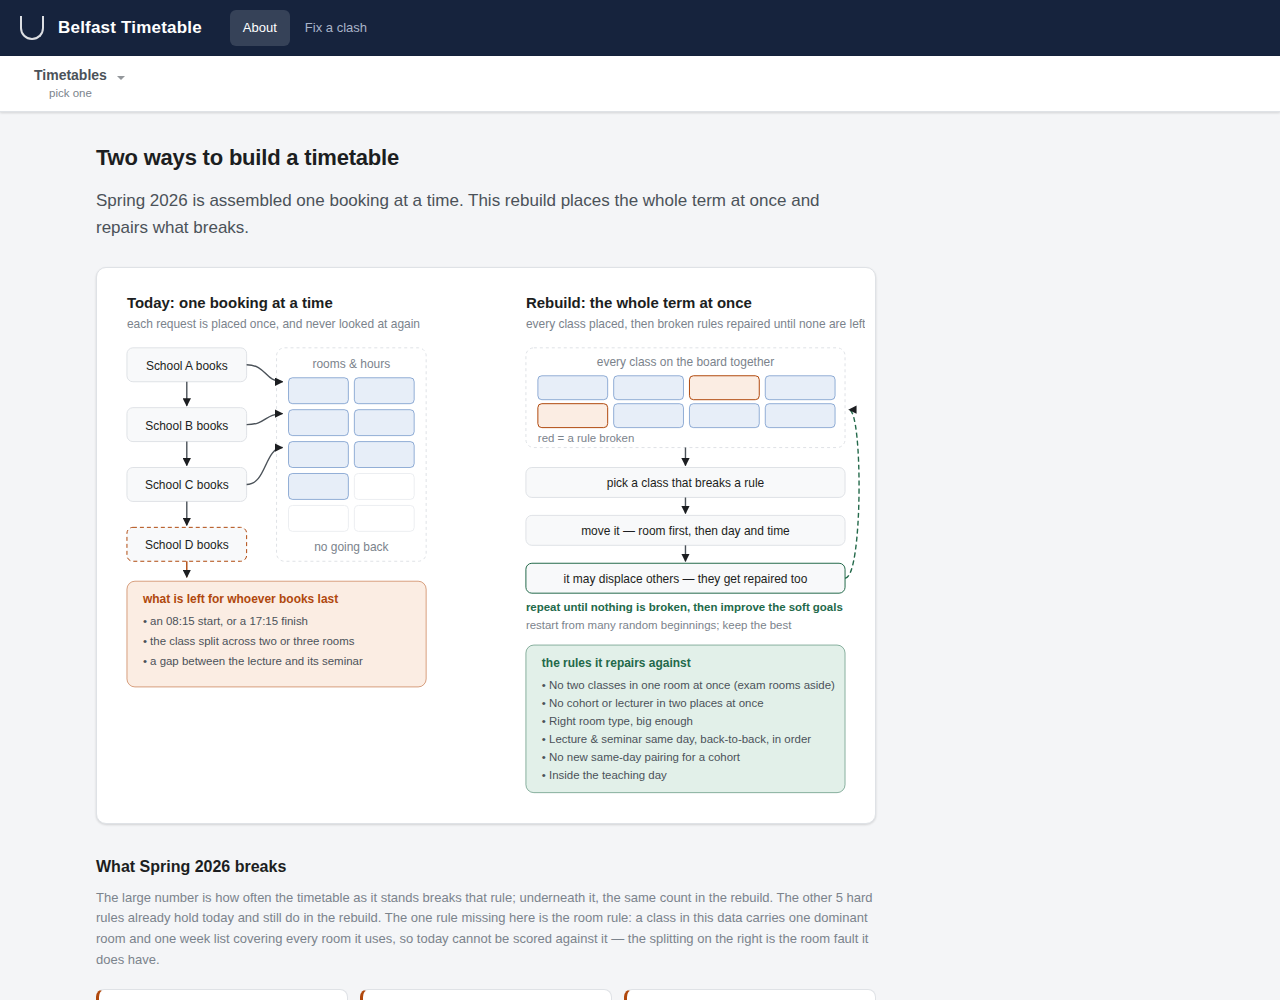
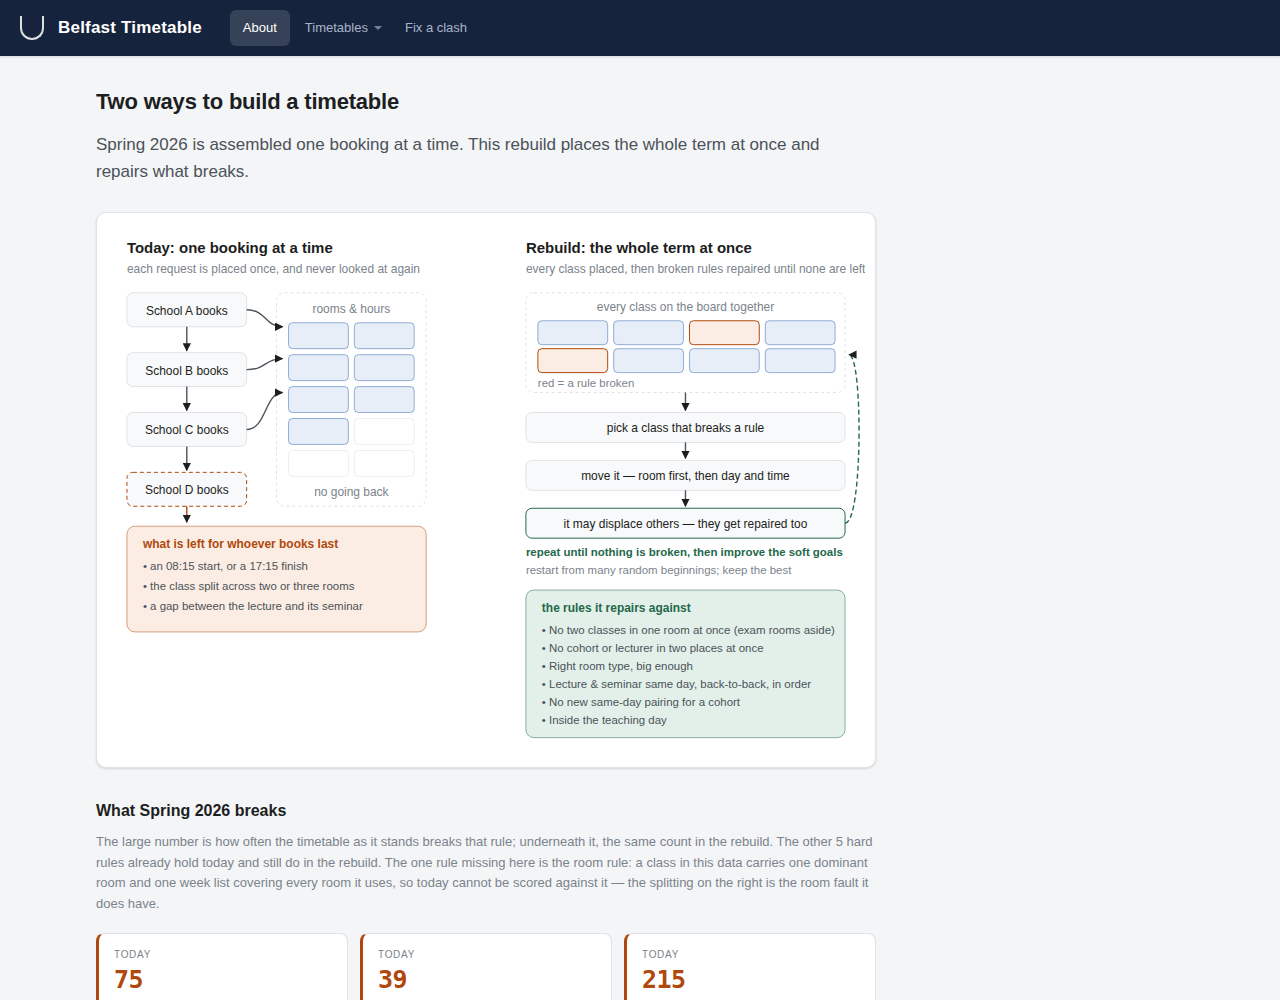
Put the timetable picker in the bar, between About and Fix a clash
One row of navigation instead of two: the strip below the bar is gone,
and Timetables sits where it belongs in the order. It opens on hover
where there is a pointer and on click everywhere; a click while hover
already has it open no longer closes it, which read as the menu
refusing to open.

Claude-Session: https://claude.ai/code/session_01MXfb615SCLwARwyeWvxCJ7

diff --git a/docs/index.html b/docs/index.html
@@ -15,11 +15,10 @@
   <h1>Belfast Timetable</h1>
   <nav id="appnav">
     <a href="#" id="nav-about">About</a>
+    <span class="bar-menu" id="nav-terms"></span>
     <a href="explore.html">Fix a clash</a>
   </nav>
 </header>
-
-<div class="tabs" id="tabs" role="tablist"></div>
 
 <main class="wrap">
 
@@ -717,23 +716,23 @@
    * the other two.
    */
   function buildNav() {
-    var tabsEl = document.getElementById('tabs');
-    tabsEl.innerHTML = '';
-
-    // About and Fix a clash live in the bar at the top, so the strip below it
-    // carries the one control that needs room to open: the timetable picker.
     var about = document.getElementById('nav-about');
     if (about) about.onclick = function (e) { e.preventDefault(); selectTab('method'); };
 
-    var wrap = document.createElement('div');
-    wrap.className = 'tab-menu';
+    // The timetable picker sits between About and Fix a clash, in the bar with
+    // them. It is a menu rather than three more links because there are three
+    // timetables today and four once autumn is rebuilt.
+    var wrap = document.getElementById('nav-terms');
+    if (!wrap) return;
+    wrap.innerHTML = '';
     var trigger = document.createElement('button');
-    trigger.className = 'tab';
+    trigger.className = 'bar-link';
+    trigger.id = 'nav-terms-btn';
     trigger.setAttribute('aria-haspopup', 'true');
     trigger.setAttribute('aria-expanded', 'false');
-    trigger.innerHTML = 'Timetables<span class="sub">pick one</span>';
+    trigger.textContent = 'Timetables';
     var menu = document.createElement('div');
-    menu.className = 'tab-drop';
+    menu.className = 'bar-drop';
     menu.setAttribute('role', 'menu');
 
     TERM_TABS.forEach(function (k) {
@@ -762,14 +761,17 @@
       wrap.classList.remove('open');
       trigger.setAttribute('aria-expanded', 'false');
     }
-    // Hover opens it on a pointer, click on everything else. The click handler
-    // stays because hover does not exist on a phone, and because a keyboard
-    // user reaches the trigger with Tab and opens it with Enter.
+    // Hover opens it where there is a pointer; the click handler stays for
+    // phones, and for a keyboard user who arrives on the trigger with Tab.
     wrap.onmouseenter = function () { if (matchMedia('(hover: hover)').matches) open(); };
     wrap.onmouseleave = function () { if (matchMedia('(hover: hover)').matches) close(); };
     trigger.onclick = function (e) {
       e.stopPropagation();
-      if (wrap.classList.contains('open')) close(); else open();
+      // Where hover already opened it, a click must not close it again: the
+      // pointer is over the trigger, so closing would be undone immediately
+      // and read as the menu refusing to open.
+      if (!wrap.classList.contains('open')) open();
+      else if (!matchMedia('(hover: hover)').matches) close();
     };
     document.addEventListener('click', function (e) {
       if (!wrap.contains(e.target)) close();
@@ -780,28 +782,28 @@
 
     wrap.appendChild(trigger);
     wrap.appendChild(menu);
-    tabsEl.appendChild(wrap);
-
     markNav();
   }
 
   /** Which nav item reads as current. */
   function markNav() {
-    var tabsEl = document.getElementById('tabs');
     var about = document.getElementById('nav-about');
     if (about) {
       if (tab === 'method') about.setAttribute('aria-current', 'page');
       else about.removeAttribute('aria-current');
     }
-    var trigger = tabsEl.querySelector('.tab-menu > .tab');
+    var trigger = document.getElementById('nav-terms-btn');
     if (trigger) {
-      var onTerm = tab !== 'method';
-      trigger.setAttribute('aria-selected', String(onTerm));
       var t = H.terms[tab];
-      trigger.innerHTML = 'Timetables<span class="sub">' +
-        (onTerm && t ? esc(t.label) + ' \u00b7 ' + esc(t.sub) : 'pick one') + '</span>';
+      if (tab !== 'method' && t) {
+        trigger.setAttribute('aria-current', 'page');
+        trigger.textContent = t.label + ' \u00b7 ' + t.sub;
+      } else {
+        trigger.removeAttribute('aria-current');
+        trigger.textContent = 'Timetables';
+      }
     }
-    tabsEl.querySelectorAll('.drop-item[data-k]').forEach(function (el) {
+    document.querySelectorAll('.drop-item[data-k]').forEach(function (el) {
       el.setAttribute('aria-current', String(el.dataset.k === tab));
     });
   }

diff --git a/docs/assets/style.css b/docs/assets/style.css
@@ -149,6 +149,47 @@ body {
 .appbar nav a:hover { background: rgba(255, 255, 255, .08); color: var(--bar-ink); }
 .appbar nav a[aria-current="page"] { background: rgba(255, 255, 255, .14); color: var(--bar-ink); }
 
+/* The timetable picker, sitting in the bar between About and Fix a clash. The
+   trigger is a button so it can own the menu, so it borrows the links' look
+   rather than inheriting it. */
+.bar-menu { position: relative; display: flex; }
+.bar-link {
+  border: 0;
+  background: none;
+  font: inherit;
+  font-size: 13px;
+  font-weight: 500;
+  color: var(--bar-sub);
+  padding: 8px 22px 8px 13px;
+  border-radius: 6px;
+  white-space: nowrap;
+  cursor: pointer;
+}
+.bar-link:hover { background: rgba(255, 255, 255, .08); color: var(--bar-ink); }
+.bar-link[aria-current="page"] { background: rgba(255, 255, 255, .14); color: var(--bar-ink); }
+.bar-link::after {
+  content: '';
+  width: 0; height: 0;
+  border-left: 4px solid transparent;
+  border-right: 4px solid transparent;
+  border-top: 4px solid currentColor;
+  position: absolute; right: 8px; top: 50%; margin-top: -2px;
+  opacity: .65;
+}
+.bar-drop {
+  display: none;
+  position: absolute;
+  top: calc(100% + 4px); left: 0;
+  min-width: 240px;
+  background: var(--surface);
+  border: 1px solid var(--line);
+  border-radius: 8px;
+  box-shadow: var(--sh-2);
+  z-index: 30;
+  padding: 4px 0;
+}
+.bar-menu.open .bar-drop { display: block; }
+
 .wrap { max-width: 1120px; margin: 0 auto; padding: 28px 16px 72px; }
 .wrap.narrow { max-width: 780px; }
 

diff --git a/docs/explore.html b/docs/explore.html
@@ -15,7 +15,7 @@
   <h1>Belfast Timetable</h1>
   <nav>
     <a href="index.html">About</a>
-    <a href="index.html#timetables">Timetables</a>
+    <a href="index.html">Timetables</a>
     <a href="explore.html" aria-current="page">Fix a clash</a>
   </nav>
 </header>
